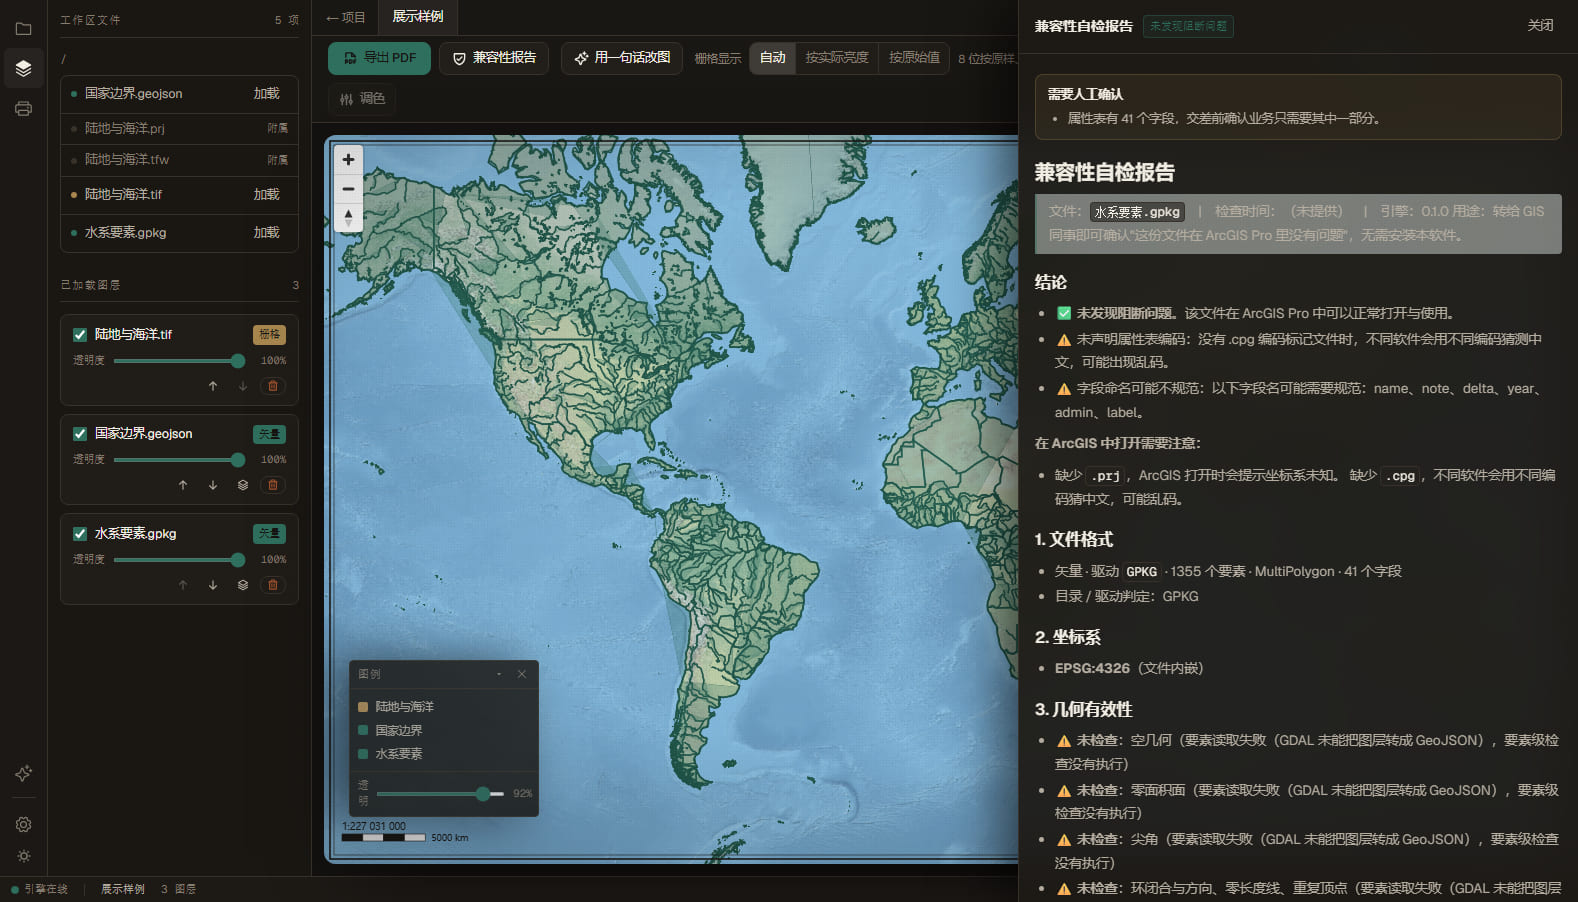
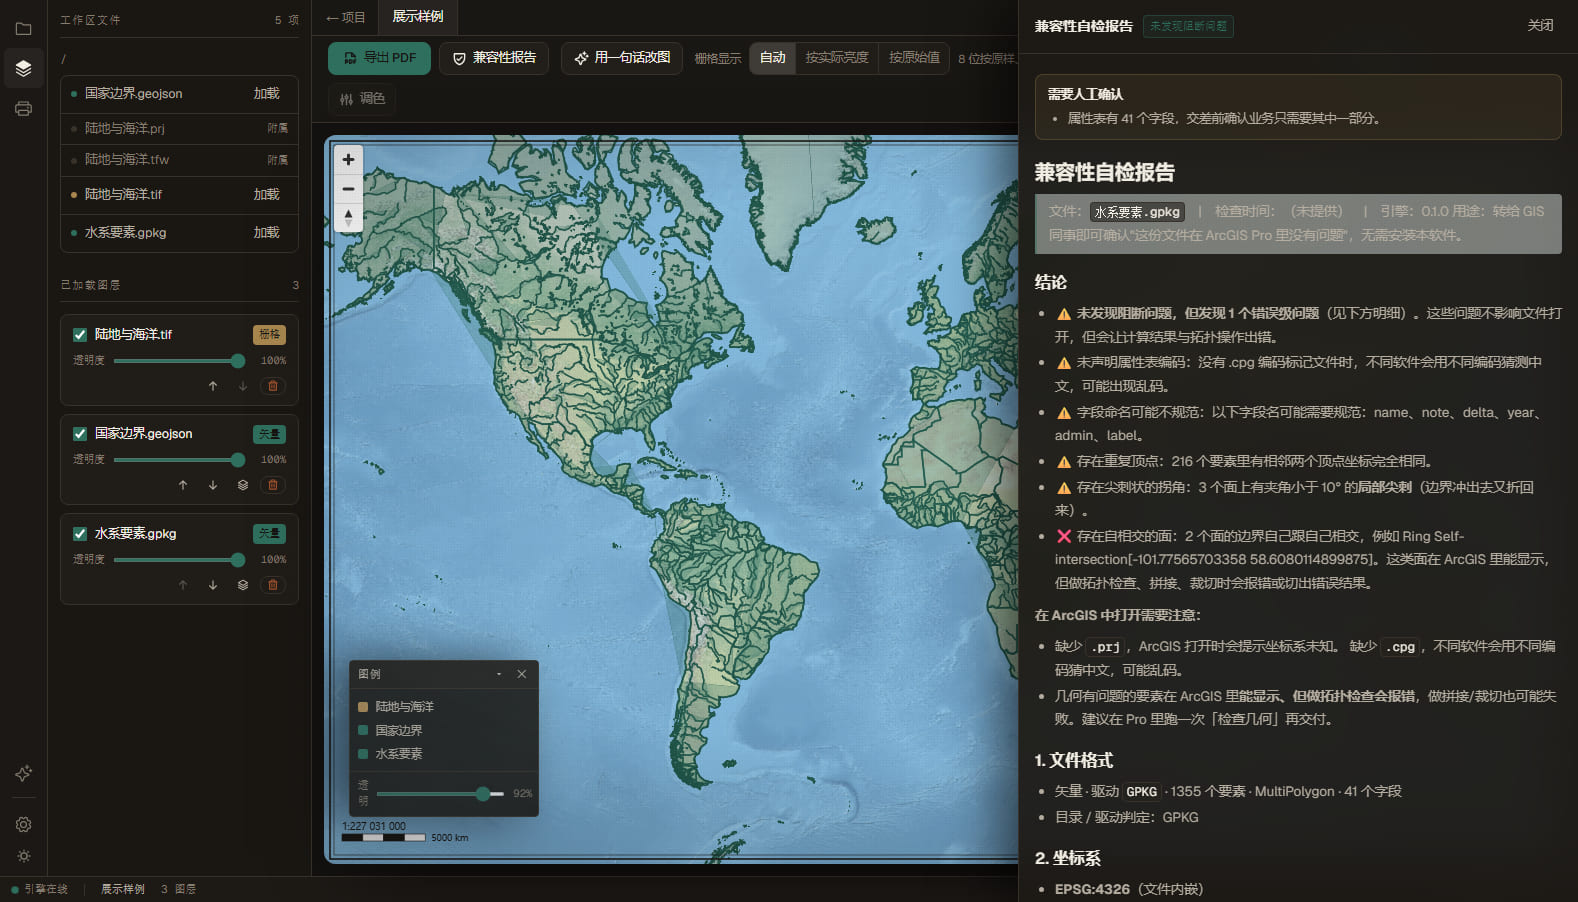
fix(health): 多图层容器的体检读不出要素，报告整节是「未检查」——改为逐层扫描，现在能查出真问题（重复顶点/自相交/尖角）；加载遮罩与图例面板加底衬，深色地图上文字看得清

Changed region(s): [[0.6521, 0.3415, 0.9937, 0.9933]]

diff --git a/src/engine/health/scan.ts b/src/engine/health/scan.ts
@@ -66,20 +66,67 @@ export async function scanFeatures(
   limit: number,
 ): Promise<FeatureScan | null> {
   const gdal = tools(loc);
-  const res = await gdal.ogr2ogr([
-    '-f', 'GeoJSON',
-    '-limit', String(limit + 1),
-    '-lco', 'RFC7946=NO',
-    '-lco', 'ID_GENERATE=YES',
-    '/vsistdout/',
-    path,
-  ]);
-  if (!res.ok || !res.stdout.trim()) return null;
+
+  /**
+   * 转一层，返回该层的要素（读不到就 null）。
+   *
+   * `layer` 为空 = 整文件转（单图层源）；给了层名 = 只转那一层。
+   */
+  const scanOne = async (layer?: string): Promise<ScannedFeature[] | null> => {
+    const args = [
+      '-f', 'GeoJSON',
+      '-limit', String(limit + 1),
+      '-lco', 'RFC7946=NO',
+      '-lco', 'ID_GENERATE=YES',
+      '/vsistdout/',
+      path,
+    ];
+    if (layer !== undefined) args.push(layer);
+    const res = await gdal.ogr2ogr(args);
+    if (!res.ok || !res.stdout.trim()) return null;
+    try {
+      const j = JSON.parse(res.stdout) as { features?: ScannedFeature[] };
+      return j.features ?? [];
+    } catch {
+      return null;
+    }
+  };
+
+  // 多图层容器（GeoPackage / KML / KMZ …）：**GeoJSON 输出驱动是单图层的**，
+  // 整文件转不过去（报 "Layer … cannot be created"）→ 读不到要素 →
+  // 报告里整节变成"未检查"。用户看到的是"这工具检查不了"，那是白做。
+  // 改成逐层转再合并（与 vector-geojson 的两阶段做法同源）。
+  const layerNames = await probeLayerNames(loc, path);
+  if (layerNames && layerNames.length > 1) {
+    const merged: ScannedFeature[] = [];
+    for (const layer of layerNames) {
+      if (merged.length > limit) break;
+      const feats = await scanOne(layer);
+      if (!feats) continue;
+      merged.push(...feats);
+    }
+    if (merged.length === 0) return null;
+    const truncated = merged.length > limit;
+    return { features: truncated ? merged.slice(0, limit) : merged, truncated };
+  }
+
+  const feats = await scanOne();
+  if (!feats) return null;
+  const truncated = feats.length > limit;
+  return { features: truncated ? feats.slice(0, limit) : feats, truncated };
+}
+
+/**
+ * 探这个文件里的图层名（读不到就 null = 单图层或探不出来）。
+ *
+ * 探不出来时按单图层处理：老路径照旧，不因为探层失败就把体检整个拖垮。
+ */
+async function probeLayerNames(loc: GdalLocation, path: string): Promise<string[] | null> {
   try {
-    const j = JSON.parse(res.stdout) as { features?: ScannedFeature[] };
-    const feats = j.features ?? [];
-    const truncated = feats.length > limit;
-    return { features: truncated ? feats.slice(0, limit) : feats, truncated };
+    const { probeLayer } = await import('../vector/read.ts');
+    const info = await probeLayer(loc, path);
+    const names = info.layerNames.filter((n) => n !== '');
+    return names.length > 0 ? names : null;
   } catch {
     return null;
   }

diff --git a/web/app/canvas/LegendPanel.tsx b/web/app/canvas/LegendPanel.tsx
@@ -145,7 +145,7 @@ export function LegendPanel({ items, containerRef }: LegendPanelProps) {
 
   return (
     <div
-      className="absolute z-20 w-[190px] select-none rounded border border-studio-line bg-studio-2/92 shadow-[var(--studio-panel-shadow)]"
+      className="absolute z-20 w-[190px] select-none rounded border border-studio-line bg-studio-2/95 shadow-[var(--studio-panel-shadow)]"
       style={{
         left: `${state.x * 100}%`,
         top: `${state.y * 100}%`,
@@ -155,18 +155,19 @@ export function LegendPanel({ items, containerRef }: LegendPanelProps) {
       onPointerUp={onPointerUp}
       onPointerCancel={onPointerUp}
     >
-      {/* 标题条：拖这里挪位置 */}
+      {/* 标题条：拖这里挪位置。折叠态只剩这一条 —— 它浮在地图上，
+          必须比展开态更实一点（不然用户看不见它在哪儿）。 */}
       <div
         onPointerDown={onPointerDown}
-        className="flex cursor-grab items-center gap-1.5 border-b border-studio-line px-2 py-1.5 active:cursor-grabbing"
+        className="flex cursor-grab items-center gap-1.5 border-b border-studio-line bg-studio-3/70 px-2 py-1.5 active:cursor-grabbing"
         title="拖动挪位置"
       >
-        <span className="font-mono text-[10.5px] tracking-[0.14em] text-studio-ink-3">图例</span>
+        <span className="font-mono text-[10.5px] tracking-[0.14em] text-studio-ink-2">图例</span>
         <span className="flex-1" />
         <button
           type="button"
           onClick={() => update({ collapsed: !state.collapsed })}
-          className="rounded px-1 font-mono text-[10.5px] text-studio-ink-3 transition-colors hover:text-studio-ink"
+          className="rounded px-1 font-mono text-[10.5px] text-studio-ink-2 transition-colors hover:text-studio-ink"
           title={state.collapsed ? '展开' : '折叠'}
           aria-label={state.collapsed ? '展开图例' : '折叠图例'}
         >
@@ -175,7 +176,7 @@ export function LegendPanel({ items, containerRef }: LegendPanelProps) {
         <button
           type="button"
           onClick={() => update({ hidden: true })}
-          className="rounded px-1 font-mono text-[10.5px] text-studio-ink-3 transition-colors hover:text-studio-ink"
+          className="rounded px-1 font-mono text-[10.5px] text-studio-ink-2 transition-colors hover:text-studio-ink"
           title="隐藏图例"
           aria-label="隐藏图例"
         >

diff --git a/web/app/canvas/ProjectLoading.tsx b/web/app/canvas/ProjectLoading.tsx
@@ -57,10 +57,12 @@ export function ProjectLoading({ done, total, current, animated }: ProjectLoadin
       aria-live="polite"
       data-testid="project-loading"
     >
-      <div className="flex w-[280px] flex-col gap-3">
+      {/* 底衬：加载发生在**任意底图**上（深色影像、浅色纸面），
+          没有底衬的话文字会跟底图糊在一起 —— 用户看到的只是"灰了一块"。 */}
+      <div className="flex w-[300px] flex-col gap-3 rounded-panel border border-studio-line bg-studio-2/95 px-4 py-3.5 shadow-[var(--studio-panel-shadow)]">
         <div className="flex items-baseline justify-between">
-          <span className="font-mono text-[11px] tracking-[0.3em] text-studio-ink-3">{label}</span>
-          <span className="tnum font-mono text-[11px] text-studio-ink-3">{percent}%</span>
+          <span className="font-mono text-[11px] tracking-[0.3em] text-studio-ink-2">{label}</span>
+          <span className="tnum font-mono text-[11px] text-studio-ink-2">{percent}%</span>
         </div>
 
         {/* 进度条：底槽 + 填充（填充宽度是真实进度，不是假动画） */}
@@ -79,7 +81,7 @@ export function ProjectLoading({ done, total, current, animated }: ProjectLoadin
               className="h-1.5 w-1.5 shrink-0 rounded-full bg-accent"
             />
           ) : null}
-          <span className="min-w-0 flex-1 truncate font-mono text-[11px] text-studio-ink-3">
+          <span className="min-w-0 flex-1 truncate font-mono text-[11px] text-studio-ink-2">
             {current ? `正在读取 ${current}` : '正在读取图层数据'}
           </span>
         </div>

diff --git a/src/engine/health/checks.ts b/src/engine/health/checks.ts
@@ -320,7 +320,9 @@ async function checkVectorHealth(
 
   if (!scan) {
     // 读不到要素 ≠ 没问题。这一项必须如实标成「没查」。
-    const reason = '要素读取失败（GDAL 未能把图层转成 GeoJSON），要素级检查没有执行';
+    // 文案说人话：用户看到的是"这项没查成"，不是 GDAL 的内部报错。
+    const reason =
+      '这个文件读不出要素，逐条检查没能执行（文件可能已损坏、加密，或格式不被支持）';
     coverage.push(cov('null-geometry', 'skipped', ['V-GEOM-001'], reason));
     coverage.push(cov('zero-area', 'skipped', ['V-GEOM-002'], reason));
     coverage.push(cov('sharp-angle', 'skipped', ['V-GEOM-008'], reason));
